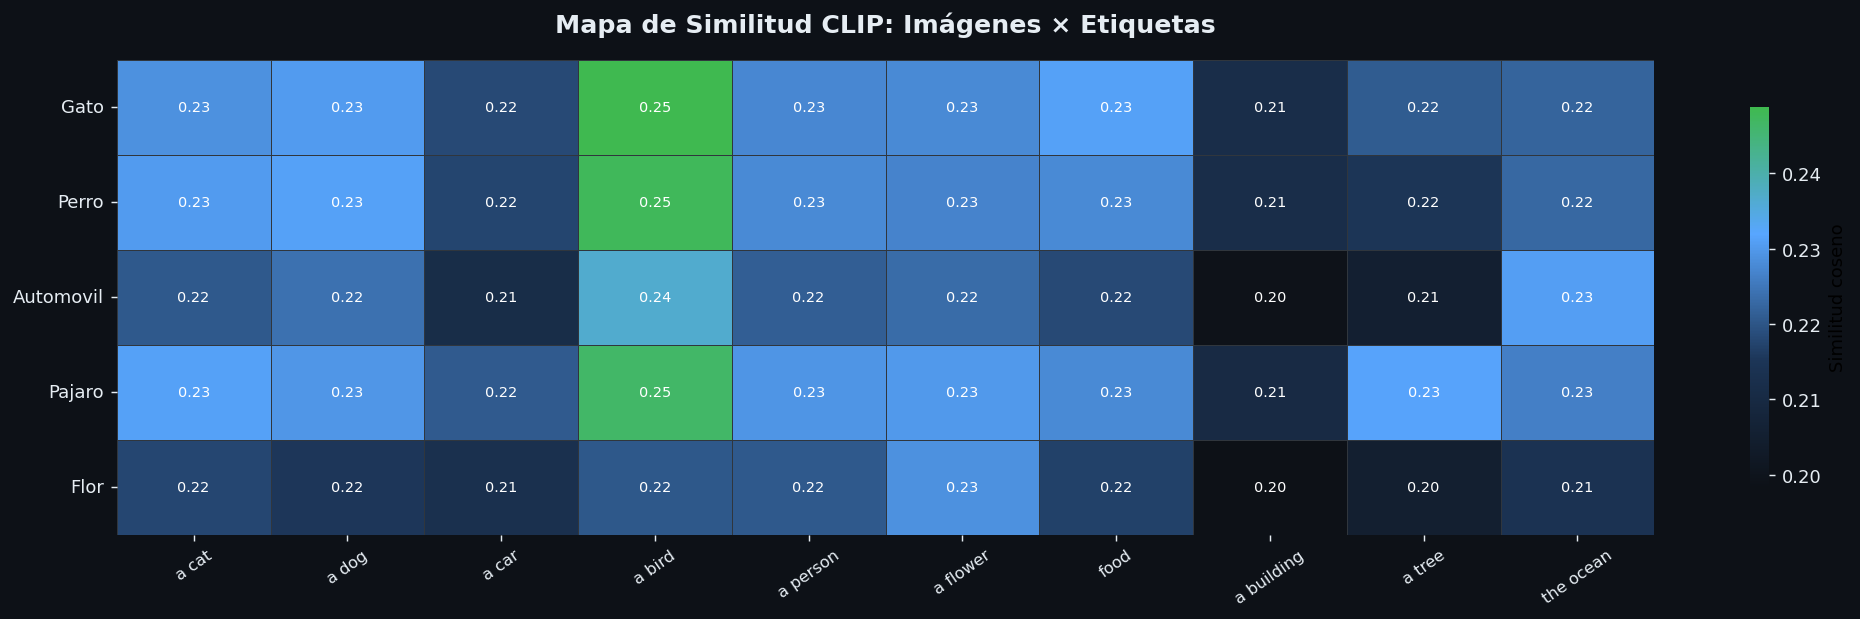
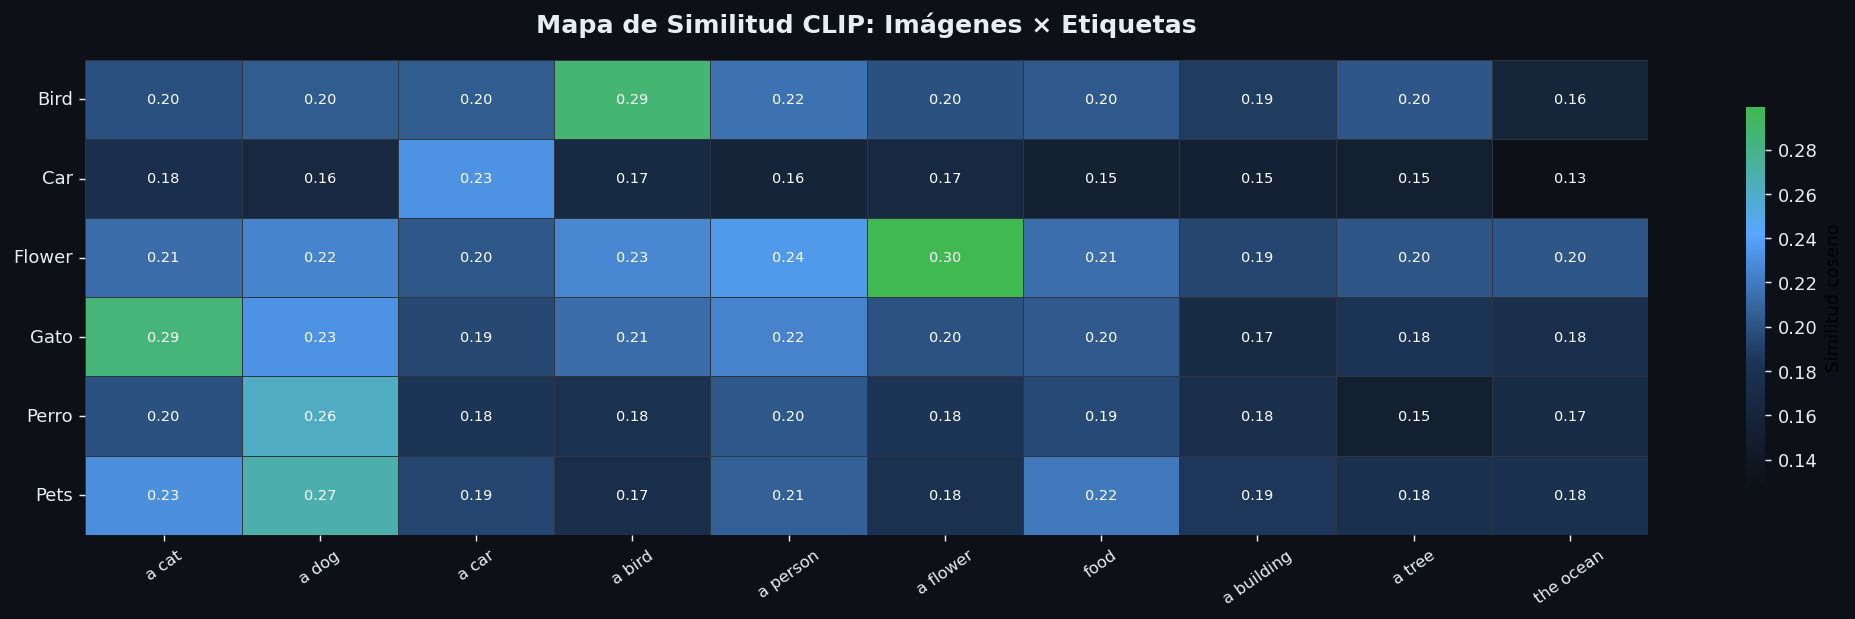
Added test images correctly for week 12 workshop 2
Added test images correctly and modified README accordingly.

diff --git a/semana_12_2_clip_clasificacion_visual_verbal/README.md b/semana_12_2_clip_clasificacion_visual_verbal/README.md
@@ -45,12 +45,15 @@ El código en Python se puede resumir en 5 módulos principales:
 ## Resultados visuales
 
 ### *Python*
+Anotación de imagenes de muestra de un pajaro y mascotas
+![imagen_Bird_anotada.png](./media/imagen_Bird_anotada.png)
+![imagen_pets_anotada.png](./media/imagen_pets_anotada.png)
 Heatmap de similitud coseno para todas las imágenes y etiquetas 
-![Comparación de imagenes y greducción en clip_results.png](./media/resultados_heatmap.png)
+![resultados_heatmap.png](./media/resultados_heatmap.png)
 Confianza de predicción por imagen en gráfico de barras
-![Comparación de imagenes y greducción en clip_results.png](./media/resultados_resumen.png)
+![resultados_resumen.png](./media/resultados_resumen.png)
 Espacio latente 2D con imágenes (★) y etiquetas (■) proyectadas
-![Comparación de imagenes y greducción en clip_results.png](./media/resultados_embeddings_pca.png)
+![resultados_embeddings_pca.png](./media/resultados_embeddings_pca.png)
 
 ## Código relevante
 